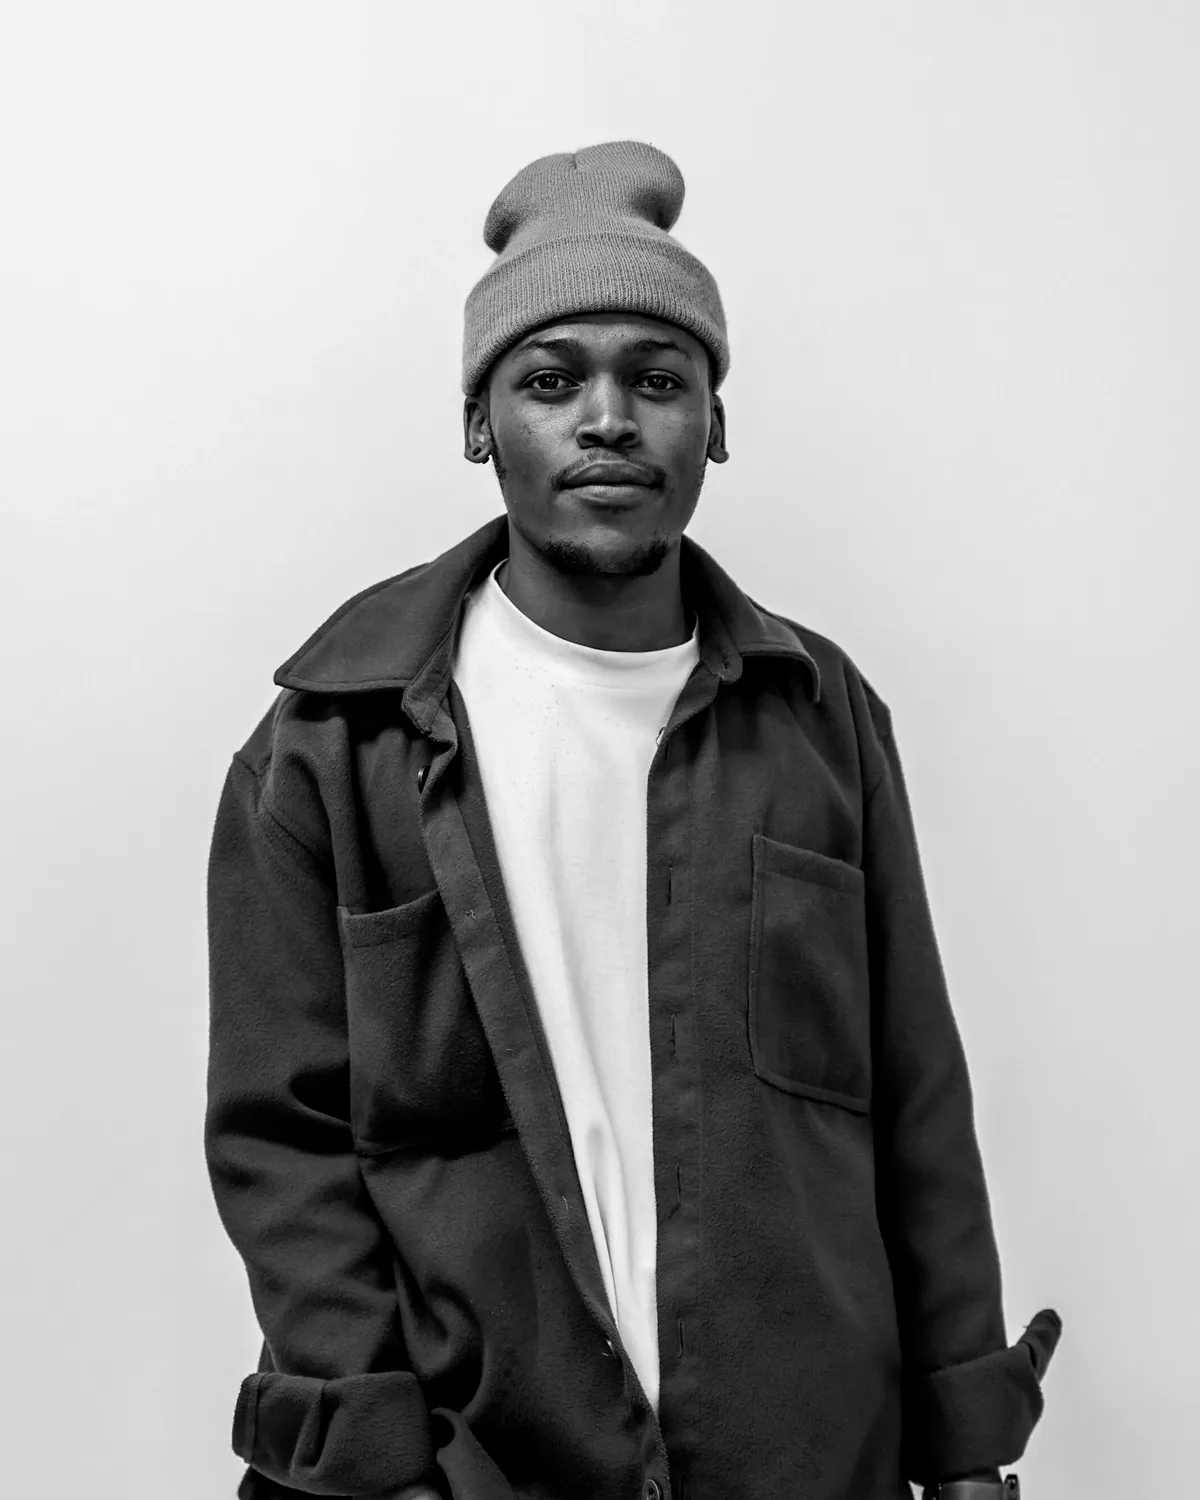
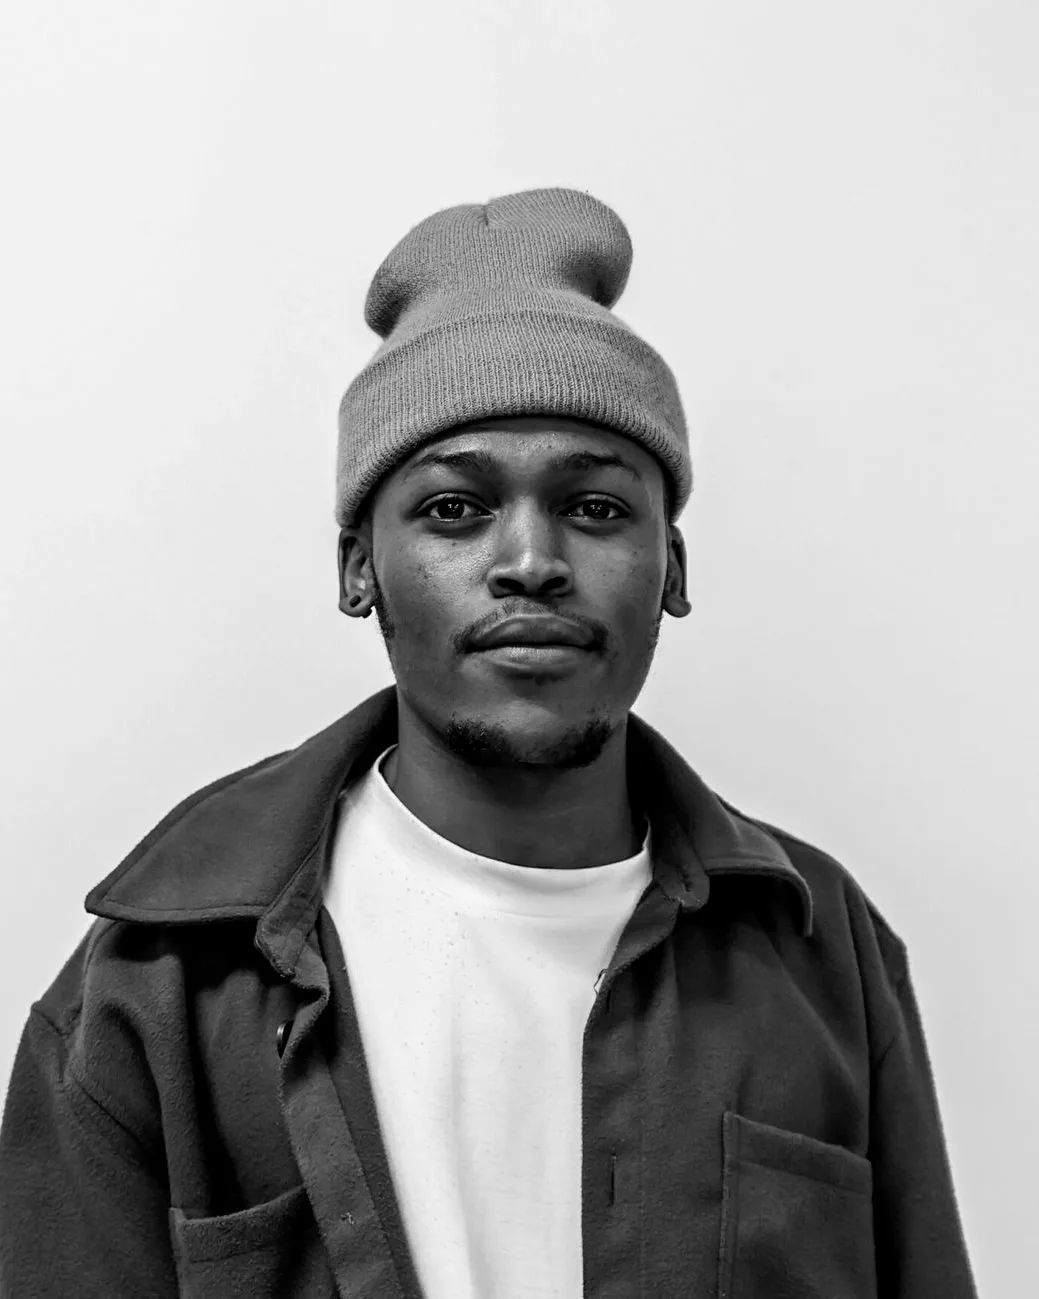
Sharper off-white hoodie photo; tighter beanie product crop
Claude-Session: https://claude.ai/code/session_01UCUSKdtq93phLH1dci1H7c

diff --git a/README.md b/README.md
@@ -176,7 +176,7 @@ Placeholder photography from Pexels ([Pexels License](https://www.pexels.com/lic
 | `boxy-tee-concrete-1.webp` | https://www.pexels.com/photo/6311583/ |
 | `cargo-1.webp` | https://www.pexels.com/photo/19461549/ |
 | `cargo-2.webp` | https://www.pexels.com/photo/19461553/ |
-| `cat-hoodies.webp` | https://www.pexels.com/photo/6311505/ |
+| `cat-hoodies.webp` | https://www.pexels.com/photo/6311503/ |
 | `cat-pants.webp` | https://www.pexels.com/photo/19461549/ |
 | `cat-tees.webp` | https://www.pexels.com/photo/6311588/ |
 | `editorial.webp` | https://www.pexels.com/photo/6311678/ |
@@ -185,7 +185,7 @@ Placeholder photography from Pexels ([Pexels License](https://www.pexels.com/lic
 | `hoodie-1.webp` | https://www.pexels.com/photo/6311502/ |
 | `hoodie-2.webp` | https://www.pexels.com/photo/6311506/ |
 | `hoodie-grey-1.webp` | https://www.pexels.com/photo/6311719/ |
-| `hoodie-offwhite-1.webp` | https://www.pexels.com/photo/6311505/ |
+| `hoodie-offwhite-1.webp` | https://www.pexels.com/photo/6311503/ |
 | `hoodie-offwhite-2.webp` | https://www.pexels.com/photo/6311449/ |
 | `logo-tee-1.webp` | https://www.pexels.com/photo/9558707/ |
 | `logo-tee-2.webp` | https://www.pexels.com/photo/9558898/ |
